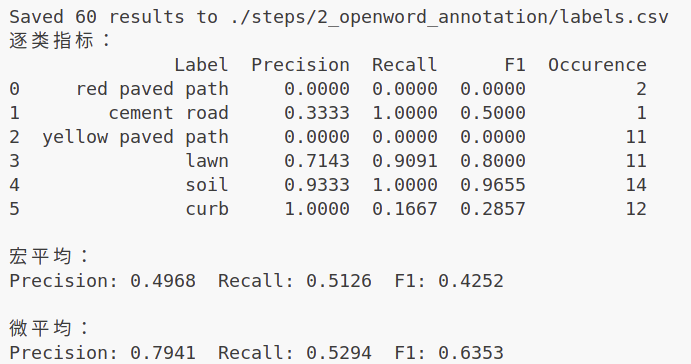
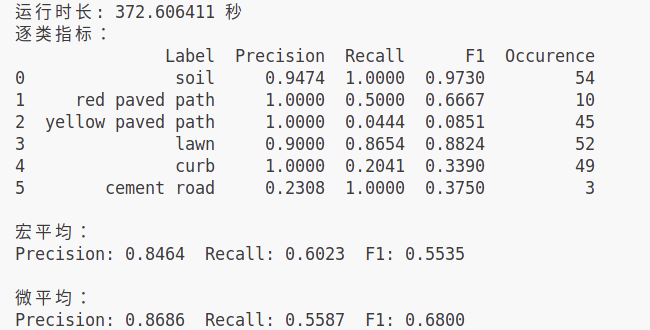
add qwen local result

diff --git a/steps/2_openword_annotation/qwen_anno.py b/steps/2_openword_annotation/qwen_anno.py
@@ -11,6 +11,8 @@ from transformers import (
     AutoProcessor,
 )
 
+from config.args import parse_args
+
 
 # The default range for the number of visual tokens per image in the model is 4-16384.
 # You can set min_pixels and max_pixels according to your needs,
@@ -58,69 +60,70 @@ if __name__ == "__main__":
     processor = AutoProcessor.from_pretrained(
         "/home/tipriest/.cache/modelscope/hub/models/Qwen/Qwen2.5-VL-7B-Instruct"
     )
-    for idx, file_path in enumerate(image_paths, 1):
-        try:
-            print(f"Processing {idx}/{len(image_paths)}: {file_path}")
-            messages = [
-                {
-                    "role": "user",
-                    "content": [
-                        {"type": "image", "image": f"file://{file_path}"},
-                        {"type": "text", "text": args.question},
-                    ],
-                }
-            ]
-            # Preparation for inference
-            text = processor.apply_chat_template(
-                messages, tokenize=False, add_generation_prompt=True
-            )
-            image_inputs, video_inputs = process_vision_info(messages)
-            inputs = processor(
-                text=[text],
-                images=image_inputs,
-                videos=video_inputs,
-                padding=True,
-                return_tensors="pt",
-            )
-            inputs = inputs.to("cuda")
+    with utils.timer():
+        for idx, file_path in enumerate(image_paths, 1):
+            try:
+                print(f"Processing {idx}/{len(image_paths)}: {file_path}")
+                messages = [
+                    {
+                        "role": "user",
+                        "content": [
+                            {"type": "image", "image": f"file://{file_path}"},
+                            {"type": "text", "text": args.question},
+                        ],
+                    }
+                ]
+                # Preparation for inference
+                text = processor.apply_chat_template(
+                    messages, tokenize=False, add_generation_prompt=True
+                )
+                image_inputs, video_inputs = process_vision_info(messages)
+                inputs = processor(
+                    text=[text],
+                    images=image_inputs,
+                    videos=video_inputs,
+                    padding=True,
+                    return_tensors="pt",
+                )
+                inputs = inputs.to("cuda")
 
-            # Inference: Generation of the output
-            generated_ids = model.generate(**inputs, max_new_tokens=128)
-            generated_ids_trimmed = [
-                out_ids[len(in_ids) :]
-                for in_ids, out_ids in zip(inputs.input_ids, generated_ids)
-            ]
-            output_text = processor.batch_decode(
-                generated_ids_trimmed,
-                skip_special_tokens=True,
-                clean_up_tokenization_spaces=False,
-            )
-            print(output_text)
-            result = json.loads(output_text[0])
-            result = result["annotations"]
-            results.append(
-                {
-                    "image_path": file_path.split("/")[-1],
-                    "annotations": result[:],
-                }
-            )
+                # Inference: Generation of the output
+                generated_ids = model.generate(**inputs, max_new_tokens=128)
+                generated_ids_trimmed = [
+                    out_ids[len(in_ids) :]
+                    for in_ids, out_ids in zip(inputs.input_ids, generated_ids)
+                ]
+                output_text = processor.batch_decode(
+                    generated_ids_trimmed,
+                    skip_special_tokens=True,
+                    clean_up_tokenization_spaces=False,
+                )
+                print(output_text)
+                result = json.loads(output_text[0])
+                result = result["annotations"]
+                results.append(
+                    {
+                        "image_path": file_path.split("/")[-1],
+                        "annotations": result[:],
+                    }
+                )
 
-        except Exception as e:
-            print(f"Error processing {file_path} : {str(e)}")
-            results.append(
-                {
-                    "image_path": file_path,
-                    "annotations": f"ERROR: {str(e)}",
-                }
-            )
+            except Exception as e:
+                print(f"Error processing {file_path} : {str(e)}")
+                results.append(
+                    {
+                        "image_path": file_path,
+                        "annotations": f"ERROR: {str(e)}",
+                    }
+                )
 
-    if results:
-        output_filename = (
-            "./steps/2_openword_annotation/anno_results/labels.csv"
-        )
-        utils.save_to_csv(results, output_filename)
-        print(f"Saved {len(results)} results to {output_filename}")
-    else:
-        print("No result to save")
+        if results:
+            output_filename = (
+                "./steps/2_openword_annotation/anno_results/labels.csv"
+            )
+            utils.save_to_csv(results, output_filename)
+            print(f"Saved {len(results)} results to {output_filename}")
+        else:
+            print("No result to save")
 
     run_path("./steps/2_openword_annotation/anno_results/calF1.py")
